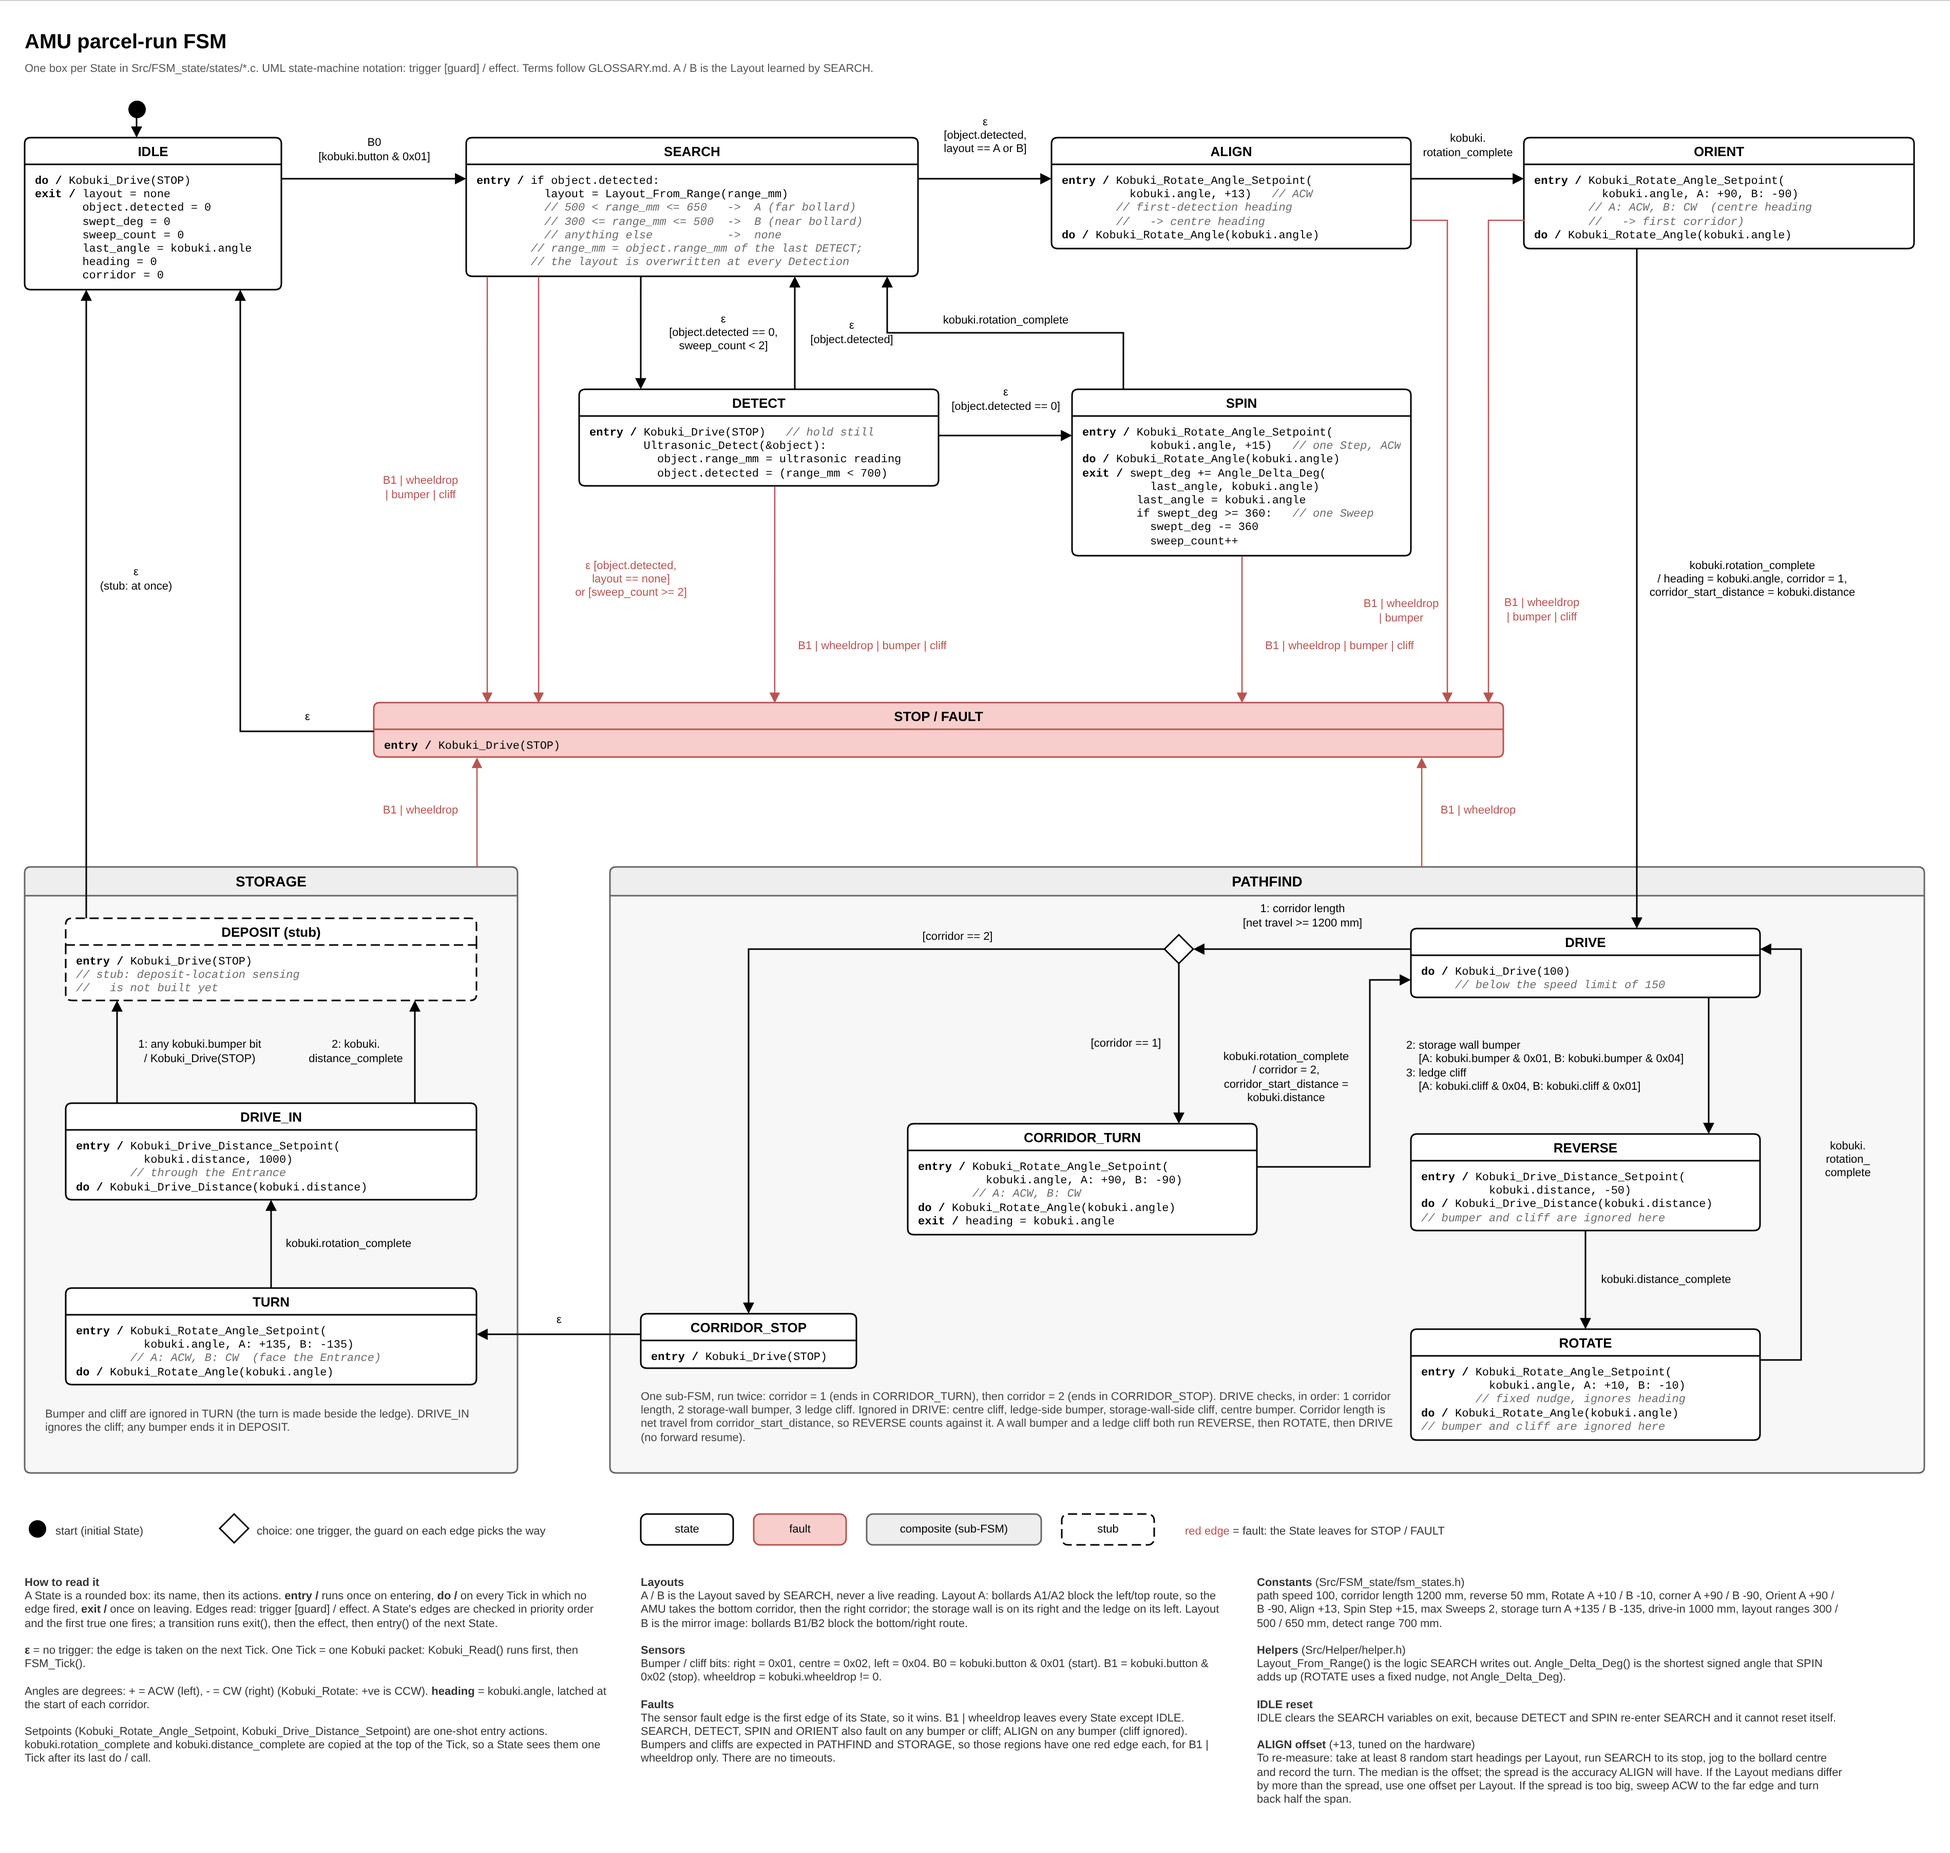
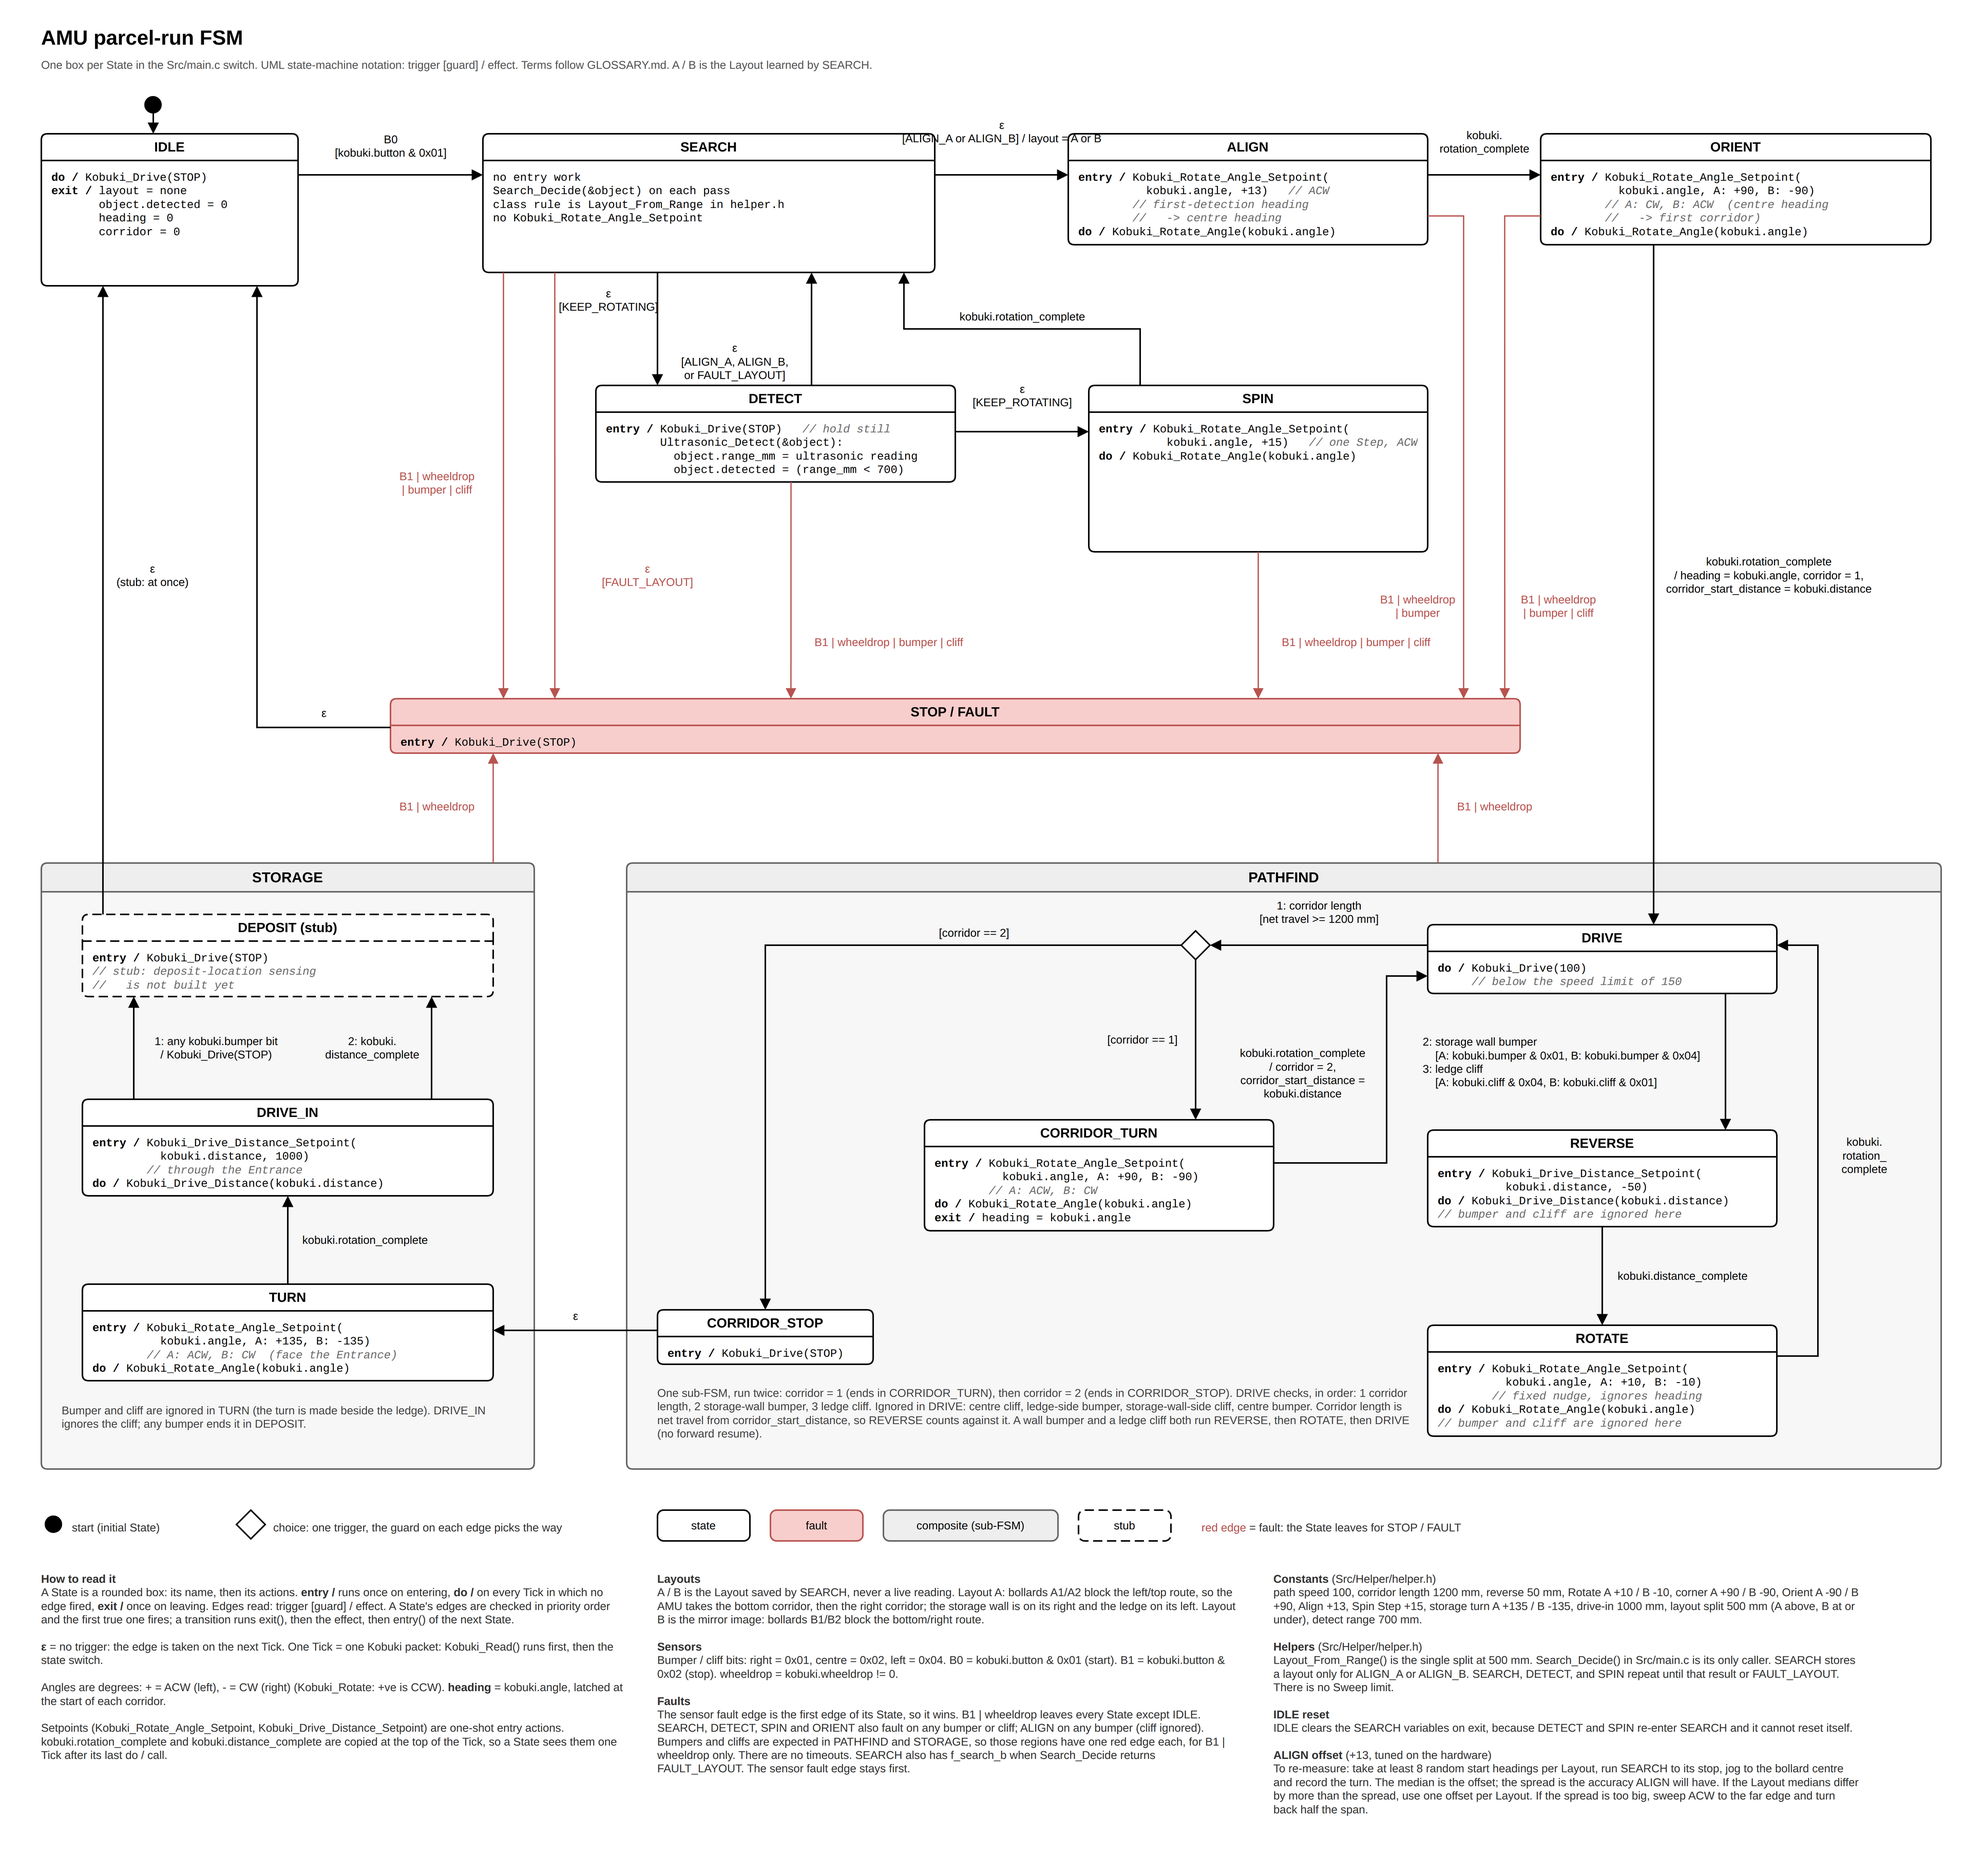
Name the SEARCH exits on the diagram and in the glossary.
The SEARCH box has no entry store. The edges name keep, align, and a layout fault. The glossary replaces the give-up wording, and the start-search note points at ST_IDLE in main.c. The preview is a 200 percent page export.

diff --git a/GLOSSARY.md b/GLOSSARY.md
@@ -40,7 +40,7 @@ _Avoid_: drop point, bay
 ### Finding the layout
 
 **Search**:
-The phase in which the AMU looks for a bollard so that it can learn the Layout. It ends when a Layout is learned or when the AMU gives up.
+The phase in which the AMU looks for a bollard so that it can learn the Layout. It ends when SEARCH stores Layout A or Layout B and enters Align, or when a Detection has no Layout and SEARCH enters Fault.
 _Avoid_: Scan
 
 **Detect**:
@@ -48,7 +48,7 @@ One ultrasonic reading taken while the AMU is stationary, recording whether an o
 _Avoid_: Ping, sample
 
 **Detection**:
-A Detect reading in which an object is within detection range. The first Detection ends the Search and fixes the Layout.
+A Detect reading in which an object is within detection range. SEARCH stores the Layout and enters Align when the class is A or B. When the class is LAYOUT_NONE, SEARCH enters Fault and leaves the stored Layout unchanged.
 _Avoid_: Hit
 
 **Spin**:
@@ -146,7 +146,7 @@ The State in which the AMU holds still until B0 (start) is pressed. It is the fi
 _Avoid_: Standby, Ready, IDLE (code id)
 
 **Fault**:
-The State the AMU stops in when it must not go on: B1 pressed, a wheel dropped, an unexpected bumper or cliff (which ones depends on the State), or a Search that gives up. It stops the motors, then returns to Idle on the next Tick. The diagram calls it STOP / FAULT.
+The State the AMU stops in when it must not go on: B1 pressed, a wheel dropped, an unexpected bumper or cliff (which ones depends on the State), or a Detection whose layout is LAYOUT_NONE. It stops the motors, then returns to Idle on the next Tick. The diagram calls it STOP / FAULT.
 _Avoid_: Error, Stop, E-stop
 
 **State**:

diff --git a/.cursor/skills/verify-amu/features/start-search.md b/.cursor/skills/verify-amu/features/start-search.md
@@ -24,5 +24,5 @@ Preconditions:
 
 ## Gotchas
 
-- Without B0 the firmware stays in Idle (`state_idle.c`); the sim always injects B0 for scored trials — proving Idle-without-B0 needs a different harness and is not mapped yet.
+- Without B0 the firmware stays in Idle (`ST_IDLE` in `main.c`); the sim always injects B0 for scored trials — proving Idle-without-B0 needs a different harness and is not mapped yet.
 - A FAIL on deposit checks does not fail this feature; only a missing B0 start event does.
